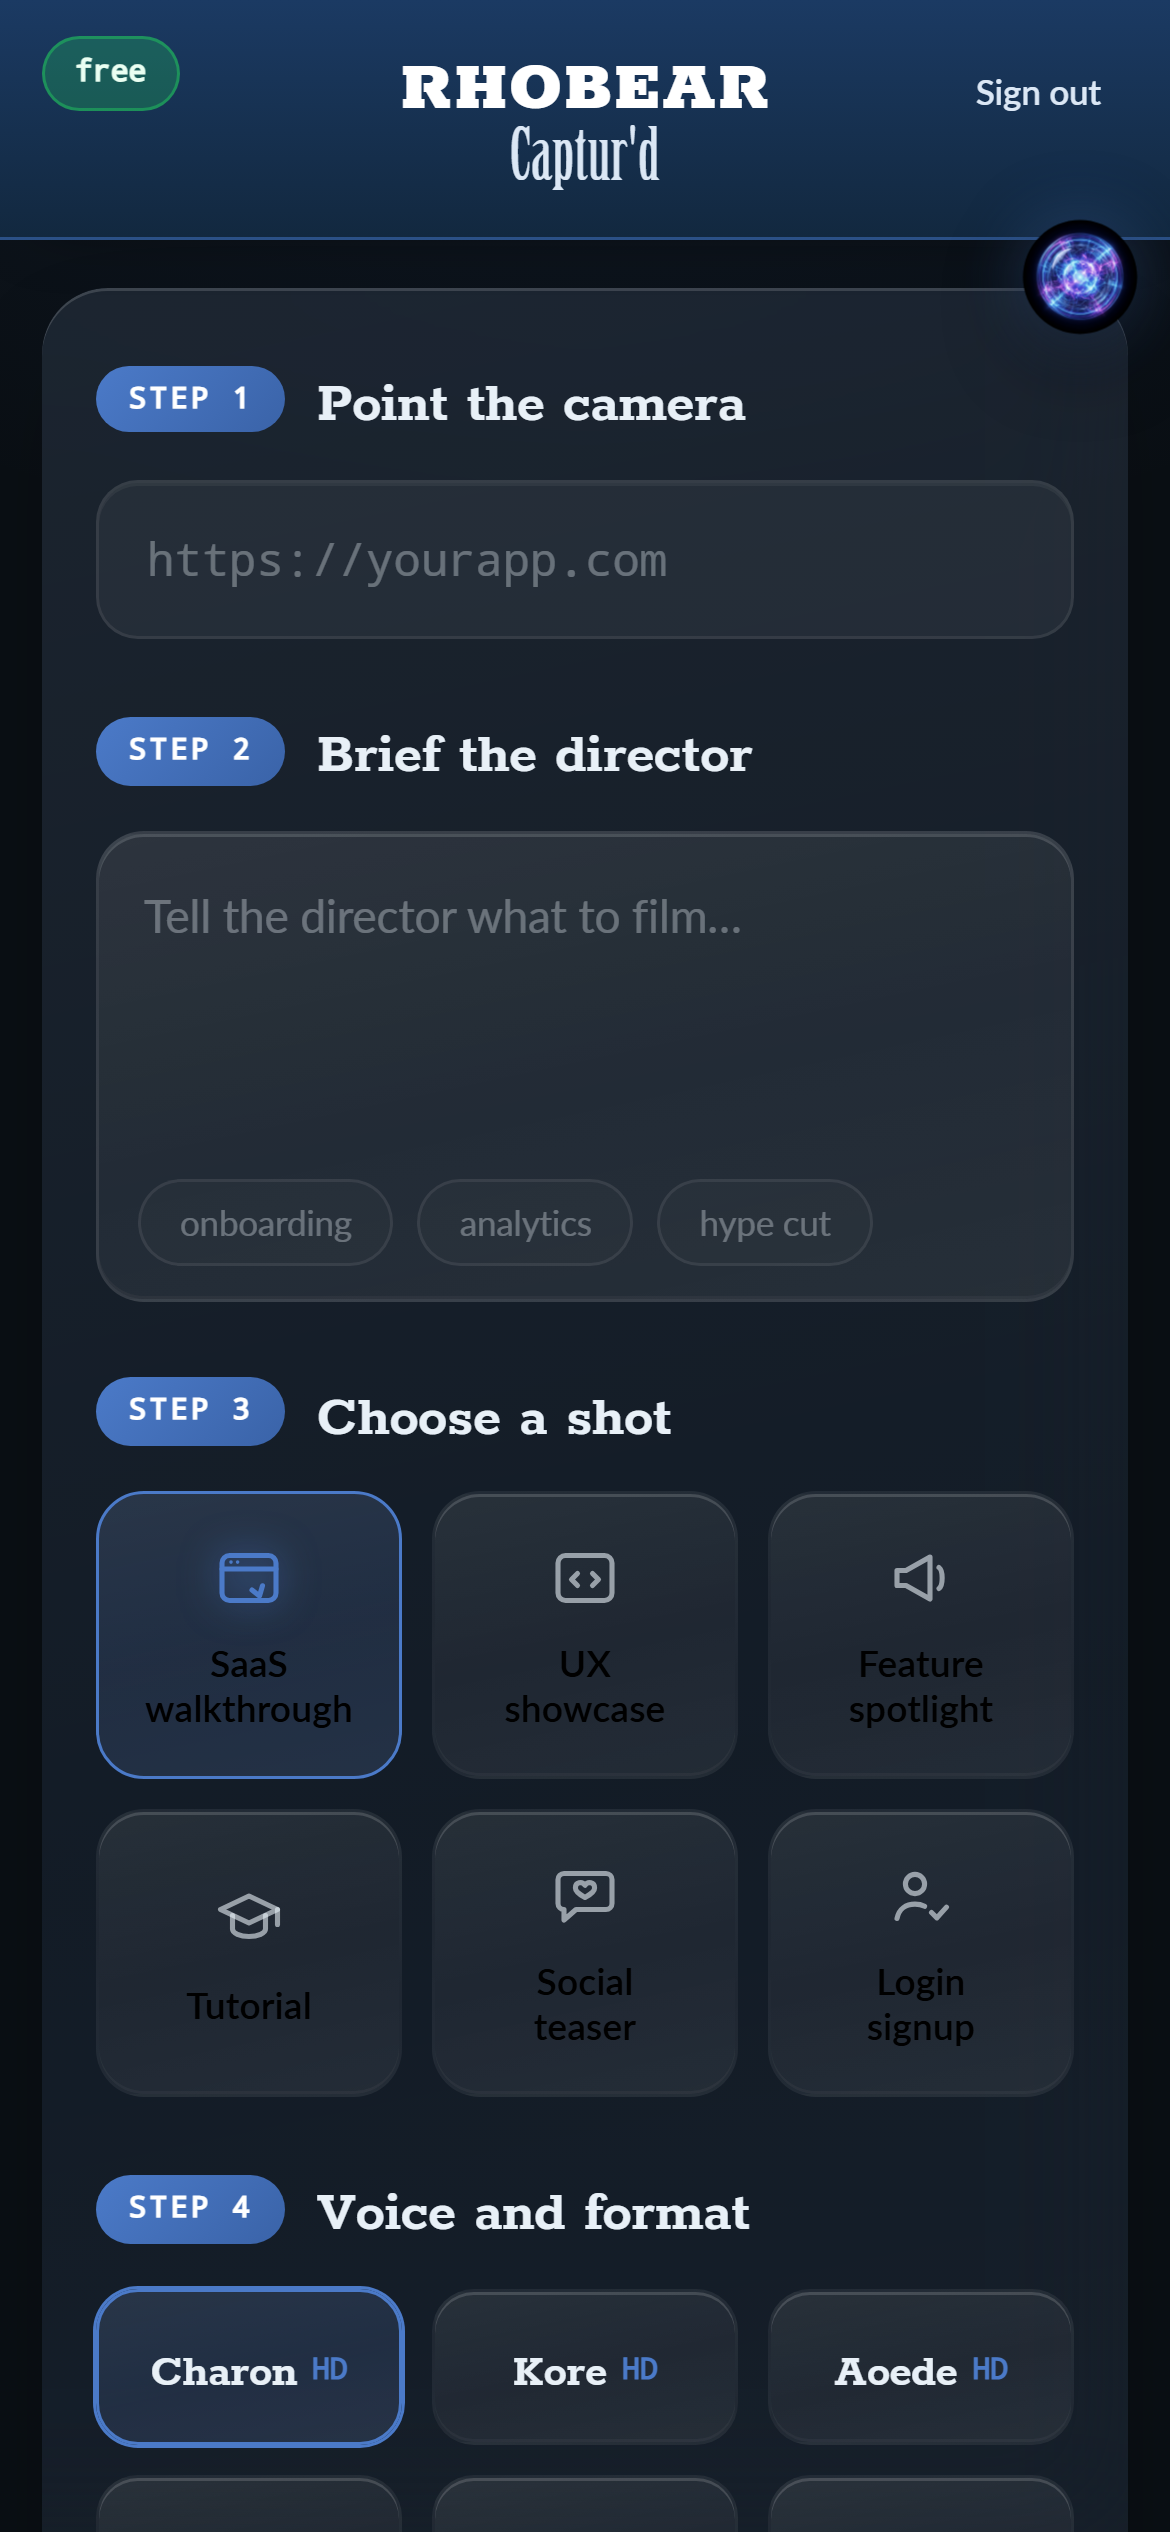
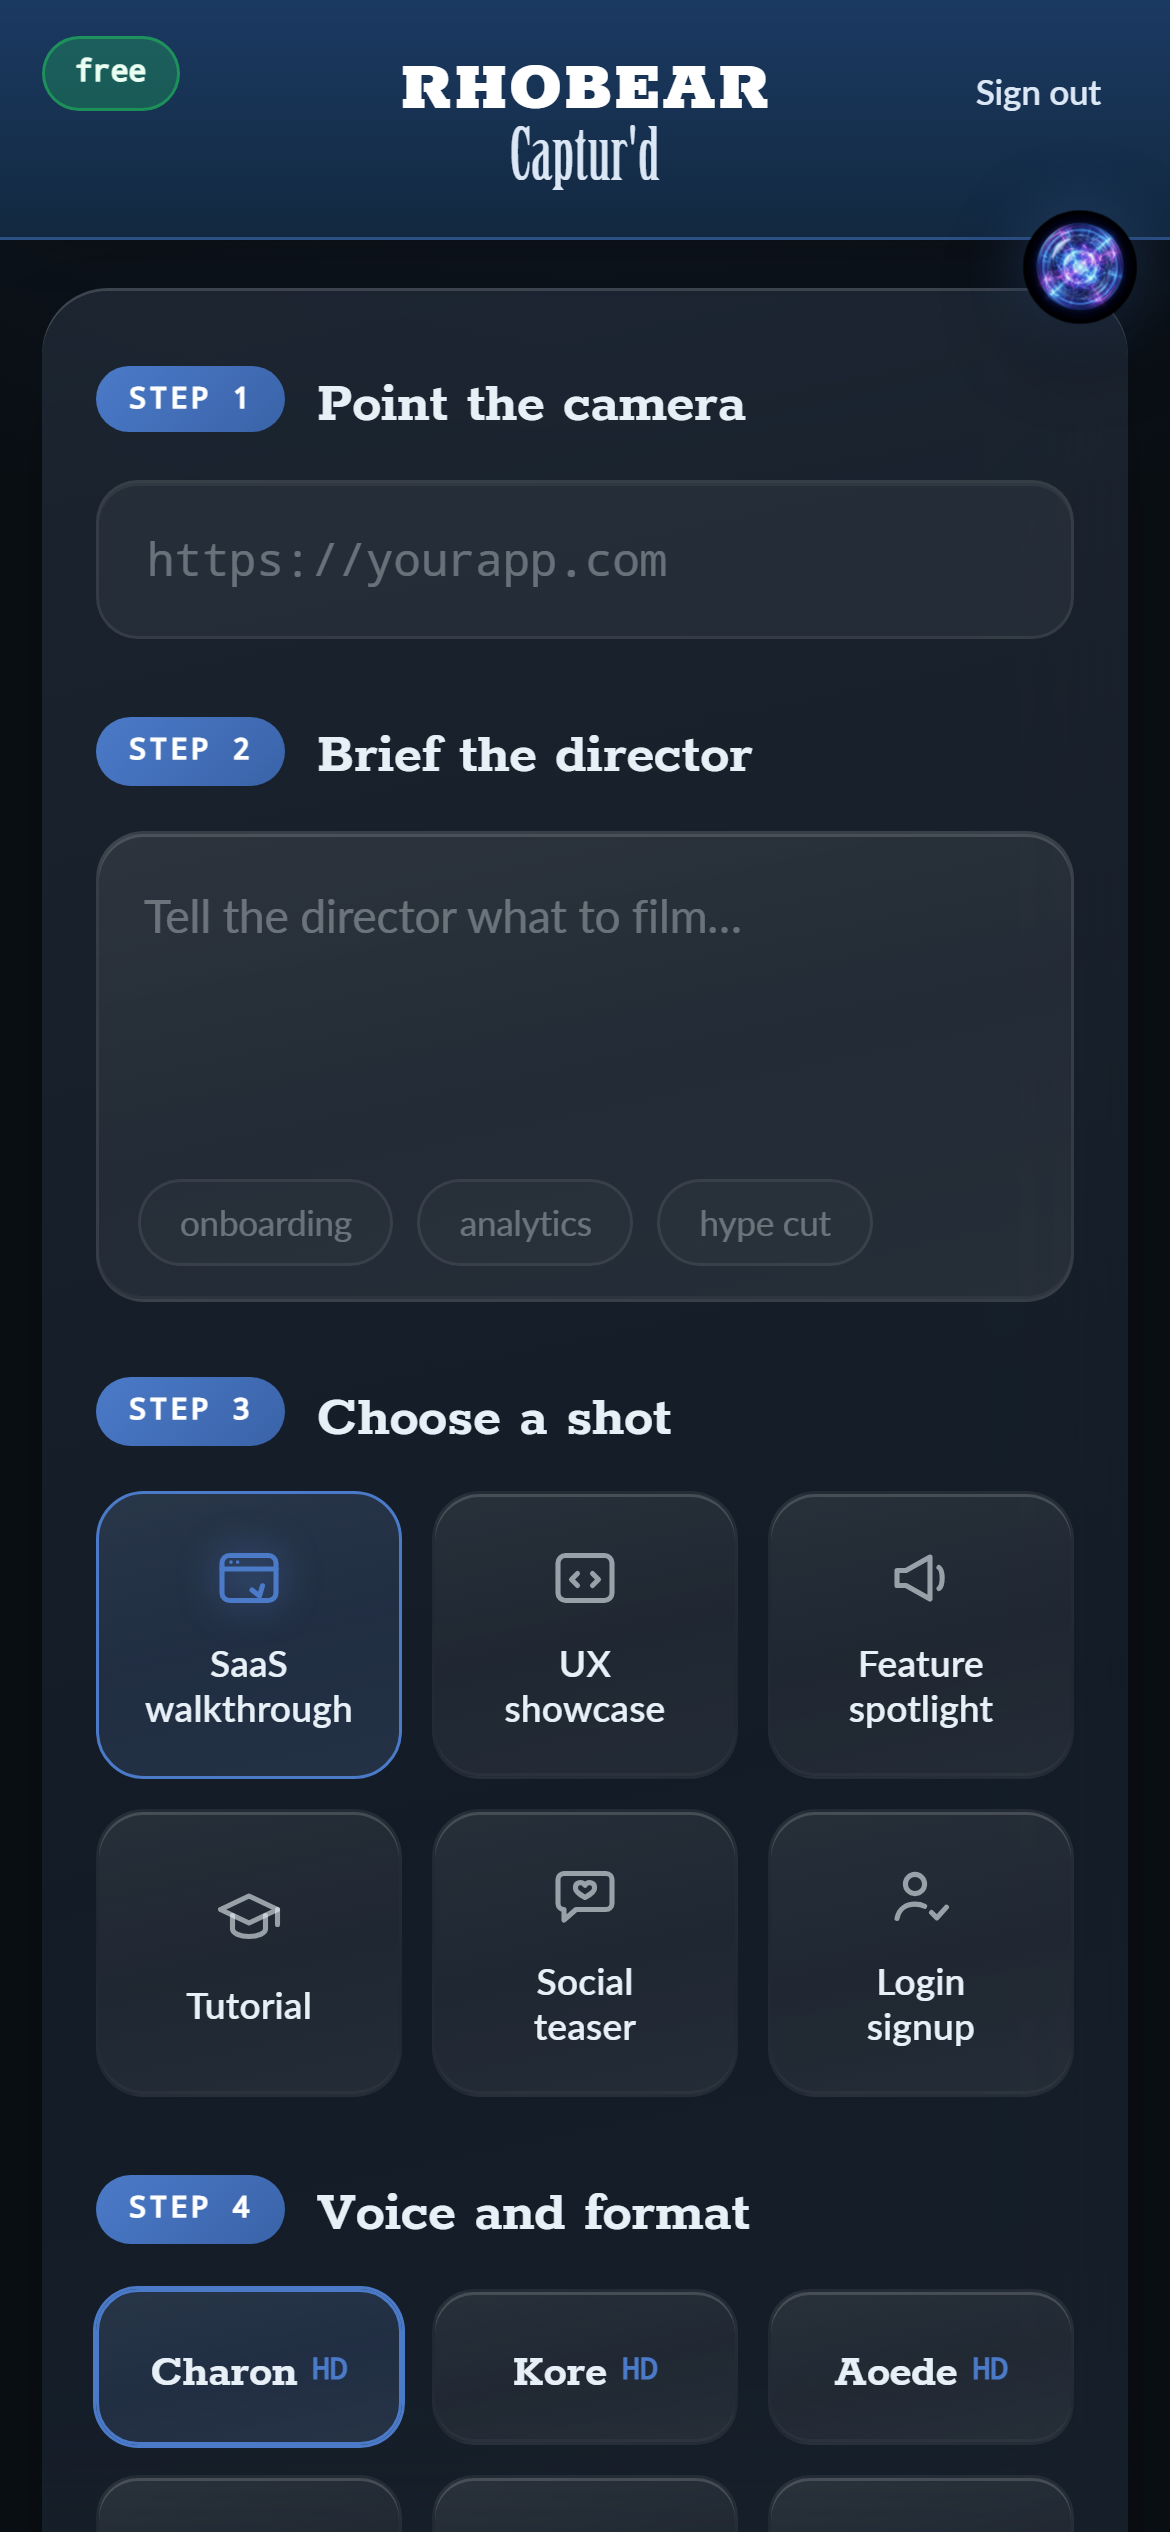
fix(capturd): mobile shot card contrast — shot names light on dark + computed-style assertion
- Add explicit color:var(--capturd-text-primary) to .tpl button cards
  in m.html (browser default ButtonText was black on dark cards)
- Add Playwright-based test_mobile_shot_card_contrast that opens the
  mobile page, checks computed color of .tpl b text, asserts all
  channels > 100 (not black), and verifies no console errors
- Refresh all browser-capture screenshots (m-studio now shows
  readable shot names)
- Full suite: 242 passed, 2 skipped, 13 deselected

diff --git a/service/web/m.html b/service/web/m.html
@@ -120,7 +120,7 @@
   /* type cards 3-col */
   .tpls{display:grid;grid-template-columns:repeat(3,1fr);gap:10px}
   .tpl{border:1.5px solid transparent;border-radius:16px;background:var(--glass-body),rgba(255,255,255,.028);
-    box-shadow:var(--glass-rim);padding:14px 8px;text-align:center;min-width:0;
+    box-shadow:var(--glass-rim);padding:14px 8px;text-align:center;min-width:0;color:var(--capturd-text-primary);
     display:flex;flex-direction:column;align-items:center;gap:8px;min-height:96px;justify-content:center}
   .tpl.sel{border-color:var(--capturd-accent);background:var(--glass-body),var(--capturd-accent-dim);box-shadow:0 0 0 1px var(--capturd-accent),0 0 20px -6px var(--capturd-accent-glow)}
   .tpl .icn{width:24px;height:24px;color:var(--capturd-text-secondary)}

diff --git a/tests/test_frontend_pack.py b/tests/test_frontend_pack.py
@@ -365,3 +365,68 @@ def test_mobile_companion_embed(mobile_html):
     """Rho companion embed script is present in mobile."""
     assert "RHOBEAR_COMPANION" in mobile_html
     assert "companion-embed.js" in mobile_html
+
+
+# ---------------------------------------------------------------------------
+# Browser-based contrast assertion (requires server + Playwright)
+# ---------------------------------------------------------------------------
+
+@pytest.mark.slow
+def test_mobile_shot_card_contrast():
+    """Mobile shot card text is light on dark, not black.
+
+    Starts the app, opens the mobile page in a mobile viewport, selects a
+    .tpl card, and asserts the computed color of the <b> text is a light
+    color (not black / default ButtonText). Uses the playwright sync API
+    and the with_server context from capture_screenshots.
+    """
+    from playwright.sync_api import sync_playwright
+    from scripts.capture_screenshots import with_server
+
+    def check(port):
+        base = f"http://127.0.0.1:{port}"
+        with sync_playwright() as p:
+            browser = p.chromium.launch(headless=True)
+            ctx = browser.new_context(
+                viewport={"width": 390, "height": 844},
+                device_scale_factor=3,
+                is_mobile=True,
+                has_touch=True,
+            )
+            page = ctx.new_page()
+            page.goto(base + "/m")
+            page.wait_for_load_state("networkidle")
+
+            # Pick the first .tpl card and get the <b> text's computed color
+            color = page.evaluate("""
+                () => {
+                    const tpl = document.querySelector('.tpl b');
+                    if (!tpl) return null;
+                    return getComputedStyle(tpl).color;
+                }
+            """)
+            assert color is not None, "Could not find .tpl b element"
+
+            # Parse the rgb(a) value and verify it's light (not black)
+            # Light colors have high R/G/B values; black = rgb(0,0,0)
+            import re
+            m = re.match(r'rgba?\s*\(\s*(\d+)\s*,\s*(\d+)\s*,\s*(\d+)', color)
+            assert m, f"Could not parse color value: {color}"
+            r, g, b = int(m.group(1)), int(m.group(2)), int(m.group(3))
+
+            # Dark text on dark bg would be < 100 per channel
+            assert r > 100, f"Shot card text is too dark (red channel {r}): {color}"
+            assert g > 100, f"Shot card text is too dark (green channel {g}): {color}"
+            assert b > 100, f"Shot card text is too dark (blue channel {b}): {color}"
+
+            # Verify no console errors
+            errors = []
+            page.on("console", lambda msg: errors.append(msg.text) if msg.type == "error" else None)
+            page.goto(base + "/m")
+            page.wait_for_load_state("networkidle")
+            assert len(errors) == 0, f"Console errors on mobile page: {errors}"
+
+            ctx.close()
+            browser.close()
+
+    with_server(check)
